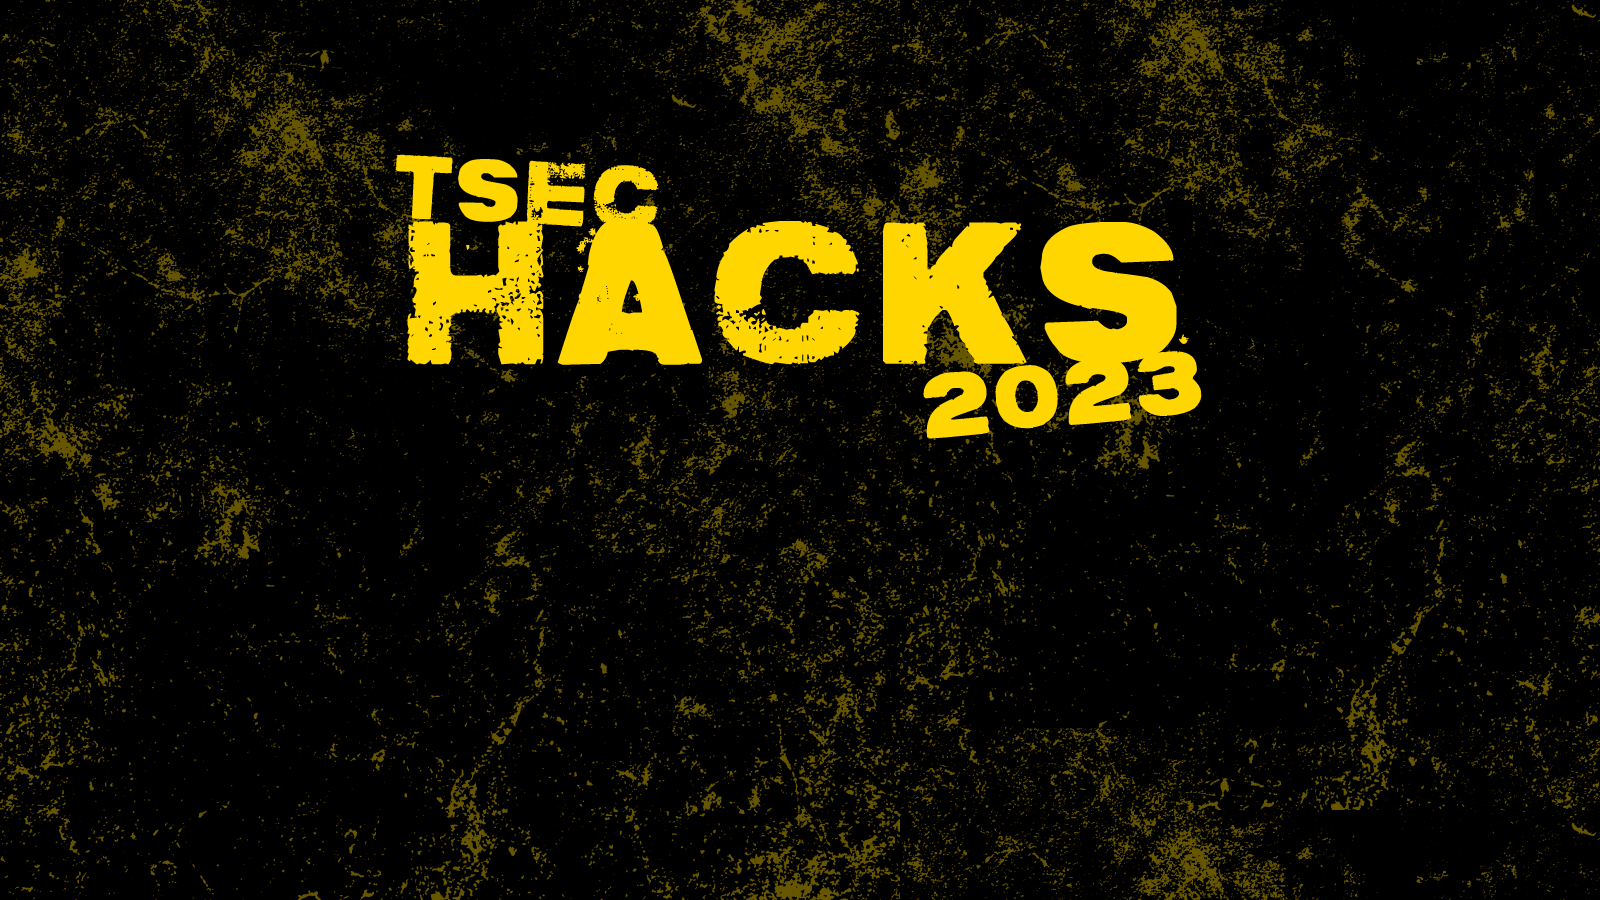
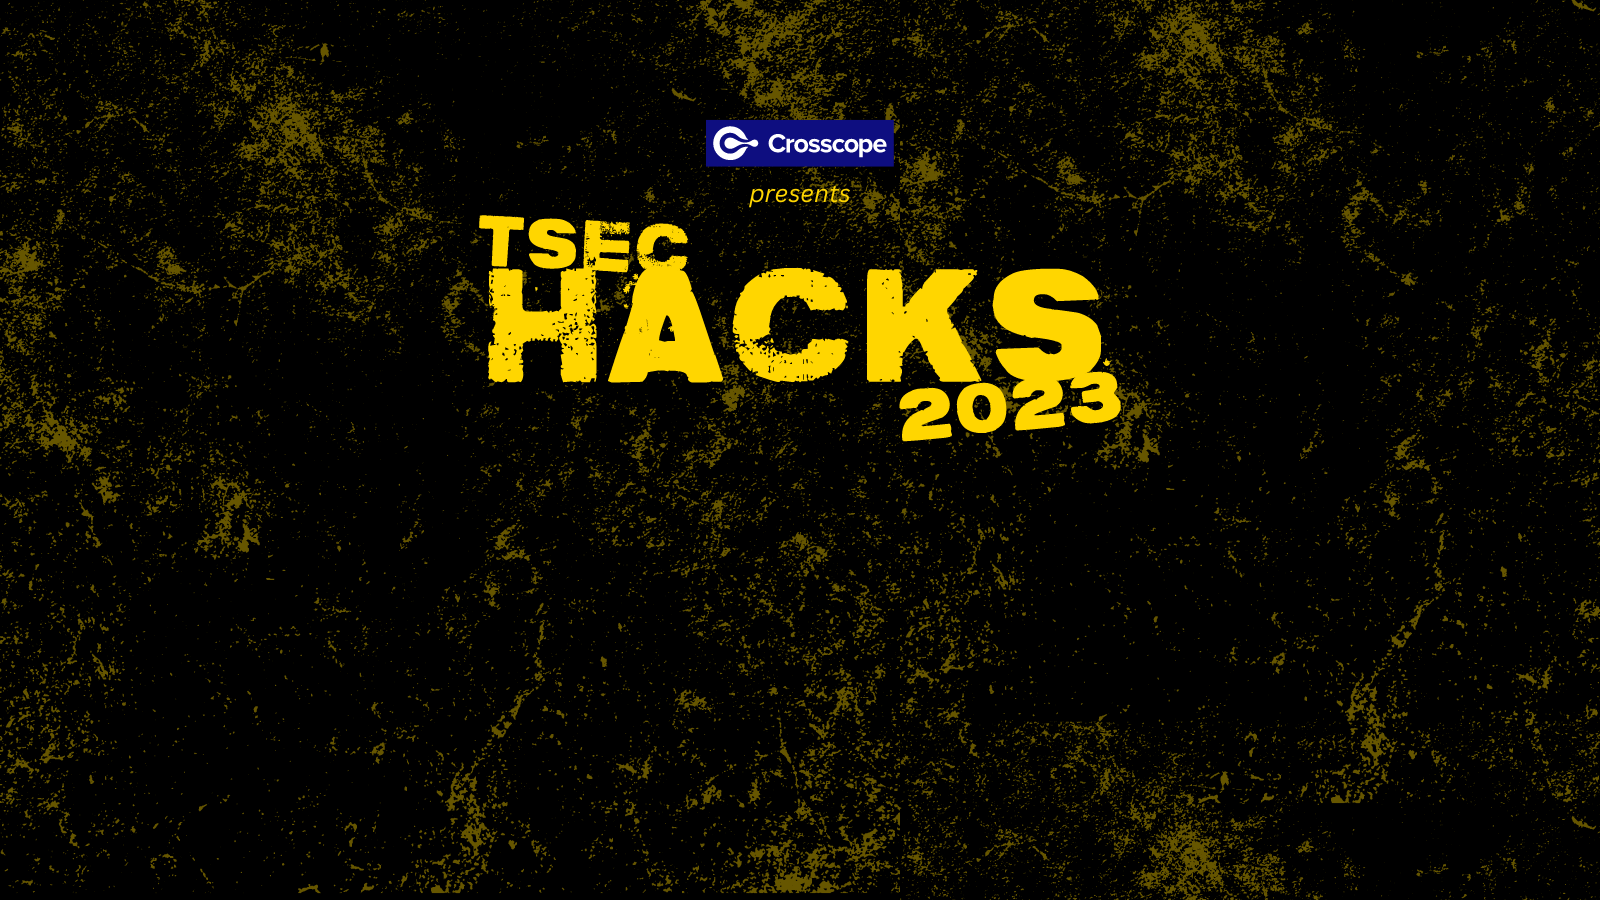
add title sponsor Crosscope

diff --git a/index.html b/index.html
@@ -696,7 +696,7 @@
       <div class="overlay"></div>
       <div class="container">
 
-        <!-- <div class="row">
+        <div class="row">
           <div class="col-12">
             <div class="section-title-header text-center">
               <h2 id="sponsor-heading" class="section-title wow fadeInUp" data-wow-delay="0.2s">Title Sponsor</h2>
@@ -706,10 +706,10 @@
         <div class="row mb-30 text-center wow fadeInDown" data-wow-delay="0.3s">
           <div class="col-lg-12">
             <div class="sponsors-logo text-center">
-               <a href="https://appwrite.io"><img style="width: 275px;" src="{% static 'img/sponsors/appwrite.svg' %}" alt=""></a>
+               <a href="https://crosscope.com/"><img style="width: 275px;" src="img/sponsors/crosscope.png" alt=""></a>
             </div>
           </div>
-        </div> -->
+        </div>
         
         <div class="row">
           <div class="col-12">
